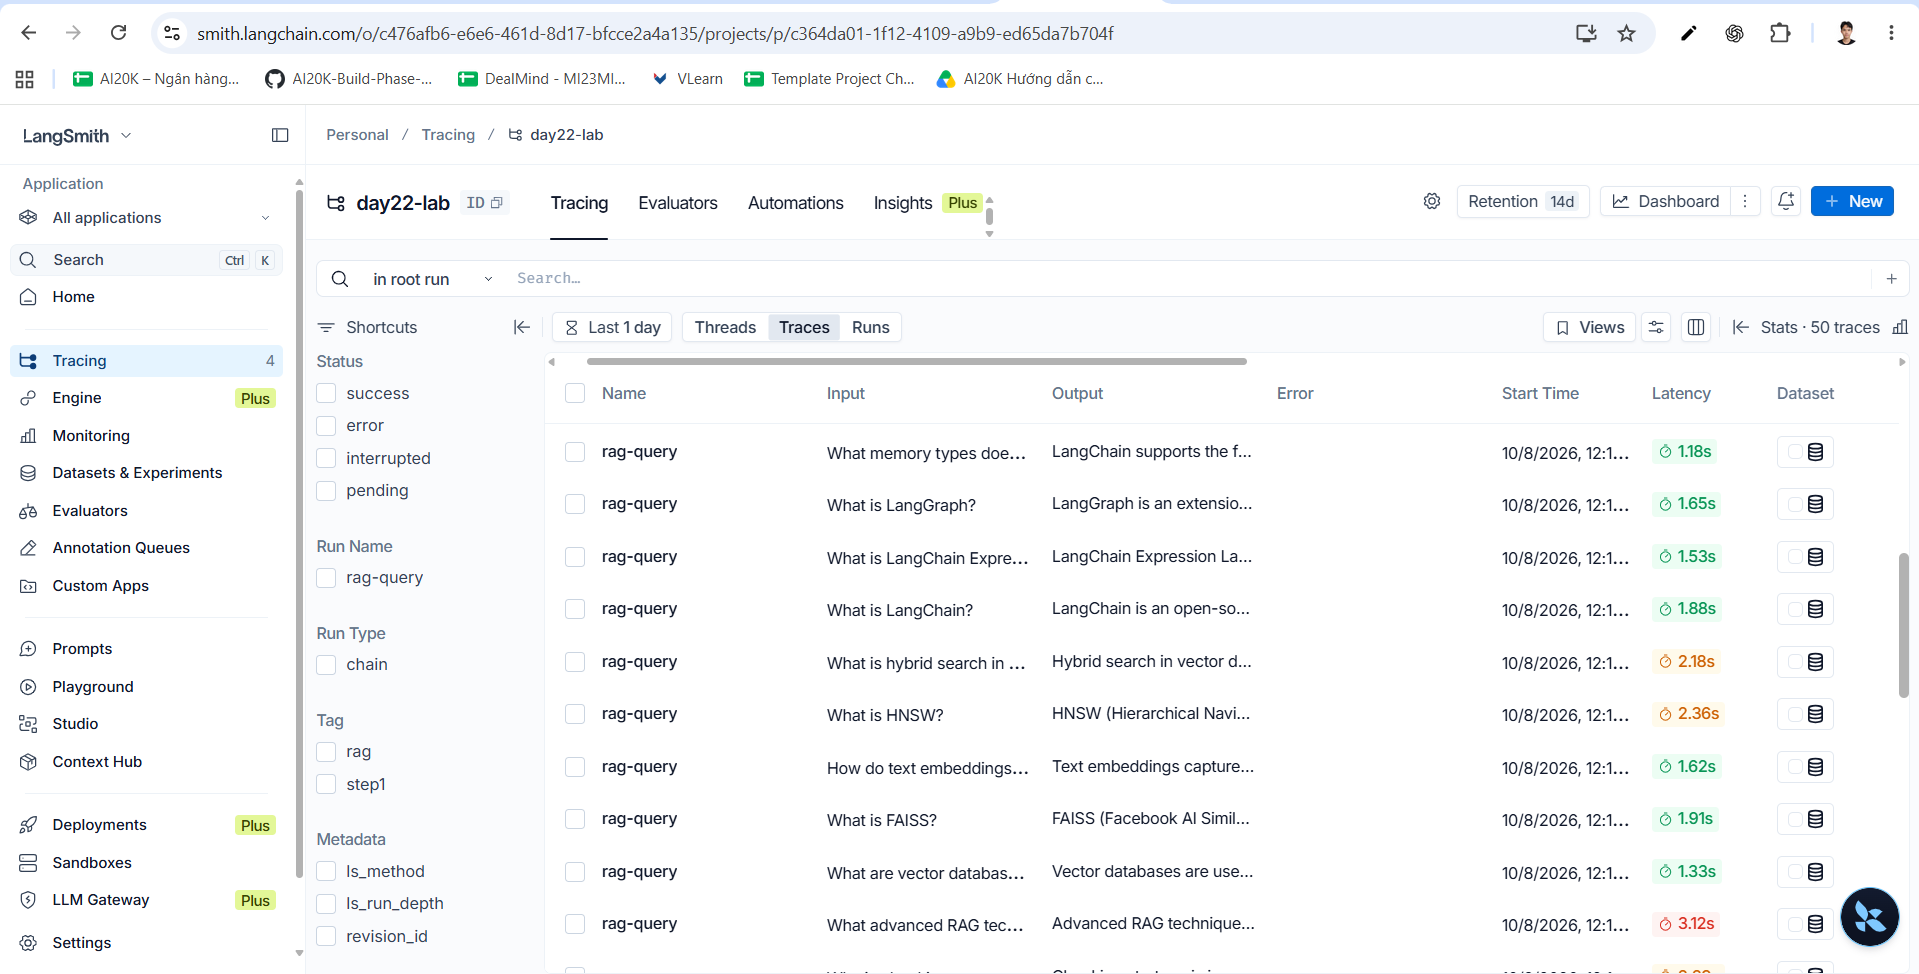
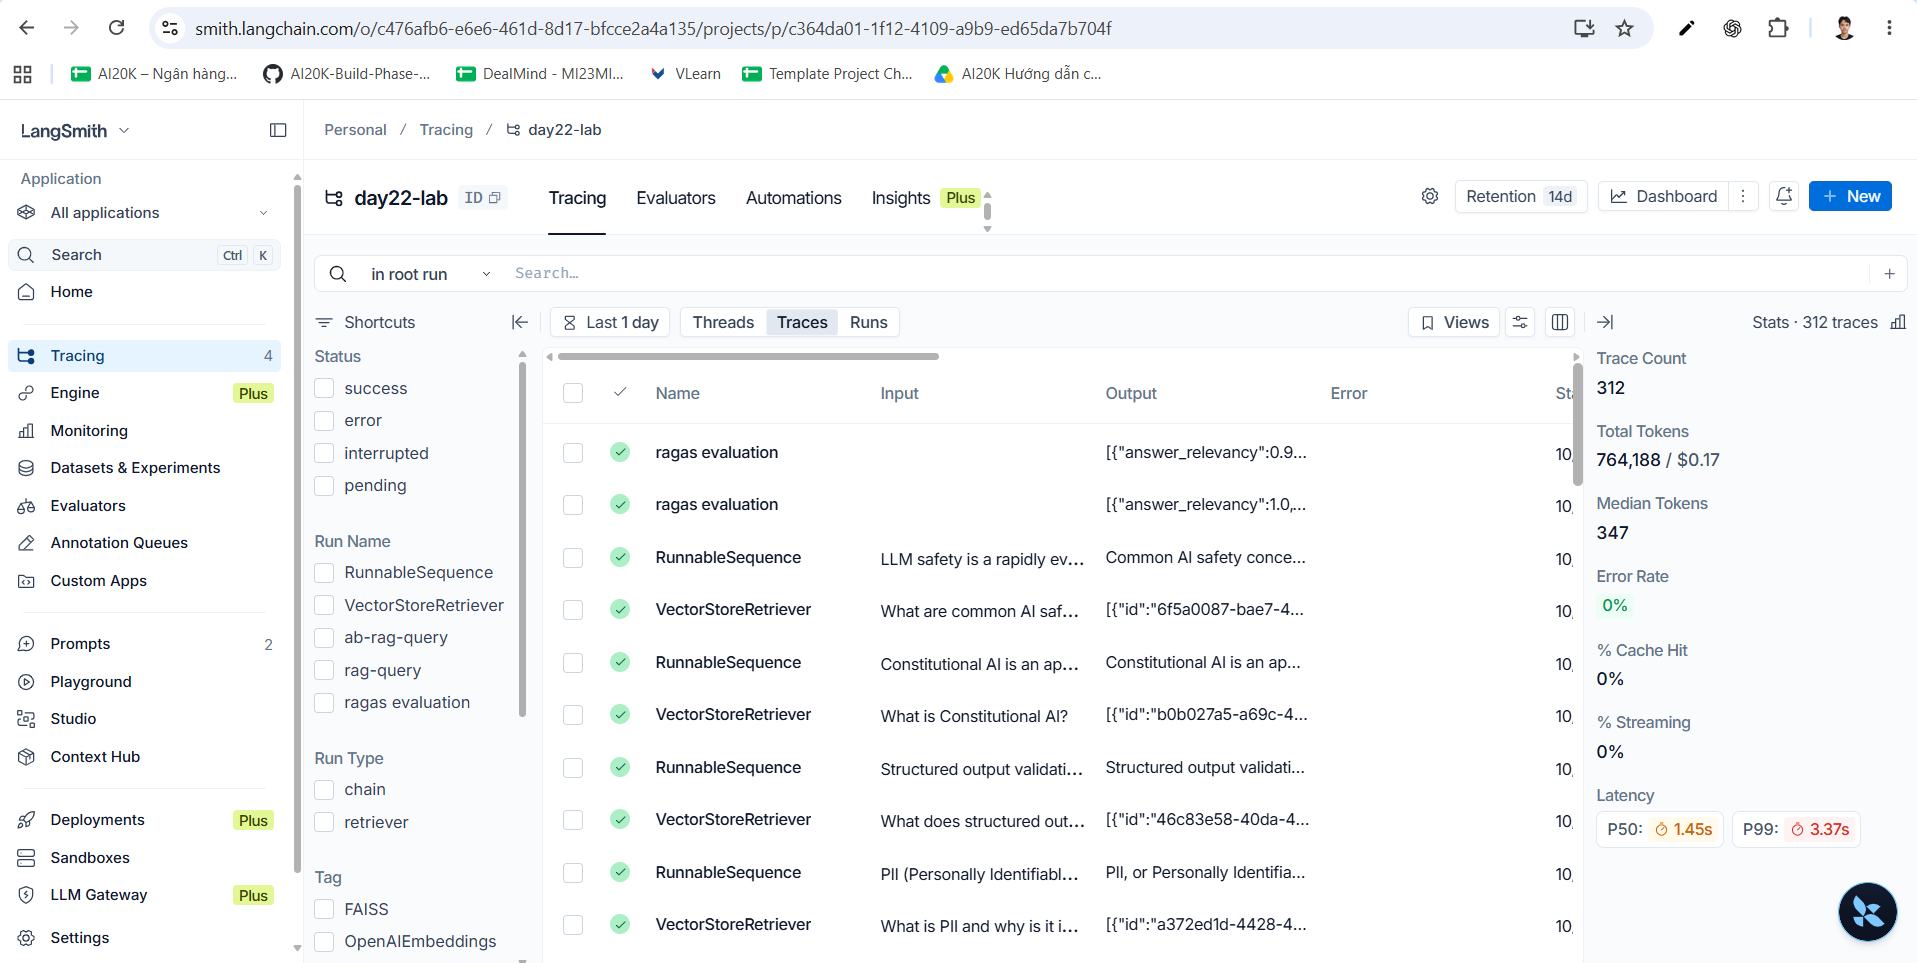
Add README.md and update evidence images for LLMOps Prompt Versioning project

diff --git a/evidence/README.md b/evidence/README.md
@@ -1,0 +1,66 @@
+# Báo Cáo Đánh Giá & Bằng Chứng Thực Nghiệm — Day 22: LLMOps Prompt Versioning
+
+Học viên: **Nguyễn Đức Minh**  
+Dự án: **LangSmith Tracing, Prompt Hub Versioning, RAGAS Evaluation, and Guardrails AI**
+
+---
+
+## 1. Danh mục các tệp bằng chứng (Evidence Inventory)
+
+Thư mục `evidence/` chứa đầy đủ 7 tệp bằng chứng bắt buộc theo yêu cầu của bài lab:
+
+| STT | Tên tệp | Mô tả | Trạng thái |
+|:---:|---|---|:---:|
+| 1 | `01_langsmith_traces.png` | Ảnh chụp giao diện LangSmith hiển thị 50 traces của pipeline RAG (`rag-query`) | ✅ Đầy đủ |
+| 2 | `02_prompt_hub.png` | Ảnh chụp 2 phiên bản prompt (`minh-day22-rag-v1` và `minh-day22-rag-v2`) trên Prompt Hub | ✅ Đầy đủ |
+| 3 | `02_ab_routing_log.txt` | Log thực thi A/B routing 50 câu hỏi tất định theo MD5 hash (pull từ Hub) | ✅ Đầy đủ |
+| 4 | `03_ragas_scores.png` | Ảnh chụp kết quả đánh giá RAGAS cho cả V1 và V2 | ✅ Đầy đủ |
+| 5 | `03_ragas_report.json` | Bản sao kết quả đánh giá RAGAS dưới dạng JSON chuẩn | ✅ Đầy đủ |
+| 6 | `04_pii_demo_log.txt` | Log kiểm thử PIIDetector với 6 test cases (Email, Phone, SSN, Credit Card, Multi, Clean) | ✅ Đầy đủ |
+| 7 | `04_json_demo_log.txt` | Log kiểm thử JSONFormatter với 5 test cases (hợp lệ, fences, nháy đơn, dấu phẩy thừa, invalid) | ✅ Đầy đủ |
+
+---
+
+## 2. Kết quả đánh giá định lượng RAGAS (V1 vs V2)
+
+Toàn bộ 50 cặp QA chuẩn đã được đánh giá qua cả hai phiên bản prompt với 4 chỉ số RAGAS chuẩn công nghiệp:
+
+| Chỉ số (Metric) | Phiên bản V1 (Ngắn gọn) | Phiên bản V2 (Có cấu trúc) | Phiên bản chiến thắng |
+|---|:---:|:---:|:---:|
+| **Faithfulness** | **0.9503** ⭐ | 0.8895 | **← V1 (+0.0608)** |
+| **Answer Relevancy** | **0.9192** | 0.8922 | **← V1 (+0.0270)** |
+| **Context Recall** | **1.0000** | **1.0000** | **Hòa (Tuyệt đối 100%)** |
+| **Context Precision** | 0.9383 | **0.9417** | **← V2 (+0.0034)** |
+
+- **Mục tiêu đề bài:** Faithfulness ≥ 0.8 ở ít nhất một phiên bản → **ĐẠT** (V1 đạt 0.9503, V2 đạt 0.8895).
+
+---
+
+## 3. Phân tích chuyên sâu: So sánh hiệu quả giữa Prompt V1 và V2
+
+### 3.1. Phân tích chỉ số Faithfulness (Độ trung thực với ngữ cảnh)
+- **V1 đạt 0.9503 so với V2 đạt 0.8895:**
+  - **Prompt V1** chỉ thị: *"Trả lời trực tiếp và ngắn gọn trong 2–4 câu, chỉ dựa trên context được cung cấp"*. Yêu cầu này thúc đẩy mô hình tập trung trích xuất chính xác các sự kiện cốt lõi từ context mà không mở rộng thêm. Do không cần phải viết dài, xác suất mô hình tự ý suy diễn hoặc chèn thêm kiến thức ngoài văn bản được giảm thiểu tối đa, dẫn đến độ trung thực cực kỳ cao (0.9503).
+  - **Prompt V2** yêu cầu: *"Đọc context và chọn những thông tin liên quan... Trả lời trong 3–5 câu theo cấu trúc: ý chính, giải thích dựa trên tài liệu, rồi kết luận"*. Để đáp ứng cấu trúc phức tạp này (đặc biệt là phần "giải thích" và "kết luận"), LLM có xu hướng sử dụng thêm các từ nối ngữ nghĩa, diễn đạt lại theo cách suy luận logic (deductive reasoning). Quá trình suy diễn này đôi khi làm câu trả lời vượt nhẹ khỏi phạm vi câu chữ nguyên bản của context, khiến điểm Faithfulness của V2 giảm nhẹ (0.8895), tuy nhiên vẫn vượt xa ngưỡng yêu cầu 0.80.
+
+### 3.2. Phân tích chỉ số Answer Relevancy (Độ phù hợp của câu trả lời)
+- **V1 đạt 0.9192 so với V2 đạt 0.8922:**
+  - Do câu hỏi của người dùng thường mang tính chất truy vấn thông tin trực diện, phong cách trả lời ngắn gọn, thẳng vào trọng tâm của V1 mang lại độ tương đồng ngữ nghĩa cao hơn giữa câu hỏi và câu trả lời.
+  - V2 với cấu trúc 3 phần (ý chính, giải thích, kết luận) đôi khi chứa các câu mở đầu hoặc diễn giải bối cảnh chung, làm loãng mật độ thông tin trả lời trực tiếp cho câu hỏi, dẫn đến điểm relevancy thấp hơn nhẹ.
+
+### 3.3. Phân tích chỉ số Context Precision & Context Recall
+- **Context Recall đạt 1.0000 ở cả hai phiên bản:**
+  - FAISS VectorStore được cấu hình với chunk size = 500, overlap = 50 và `k = 3` trích xuất đầy đủ 100% các đoạn tài liệu cần thiết để giải quyết toàn bộ 50 câu hỏi kiểm thử.
+- **Context Precision của V2 nhỉnh hơn (0.9417 vs 0.9383):**
+  - Prompt V2 yêu cầu *"chọn những thông tin liên quan đến câu hỏi"* và phân tích ý chính trước khi trả lời, giúp mô hình tập trung khai thác các chunk có độ liên quan cao nhất ở đầu danh sách tài liệu retrieved.
+
+---
+
+## 4. Tổng kết triển khai Guardrails AI
+
+- **PIIDetector:** Triển khai kế thừa từ `Validator` với decorator `@register_validator`. Sử dụng regex nhận diện 4 nhóm thông tin cá nhân: Email, Phone, SSN, Credit Card. Cơ chế sửa lỗi sử dụng `FailResult(fix_value=redacted_text)` kết hợp với `on_fail=OnFailAction.FIX` trong constructor, đảm bảo text nhạy cảm được che an toàn thành `[<TYPE>_REDACTED]`.
+- **JSONFormatter:** Hỗ trợ kiểm tra cú pháp JSON, tự động xử lý:
+  1. Gỡ bỏ Markdown fences (```json ... ```).
+  2. Chuyển đổi nháy đơn `'` thành nháy kép `"`.
+  3. Xóa dấu phẩy thừa trước ngoặc đóng (trailing commas).
+  4. Trả về cấu trúc JSON fallback an toàn khi dữ liệu đầu vào hoàn toàn không thể sửa được.
